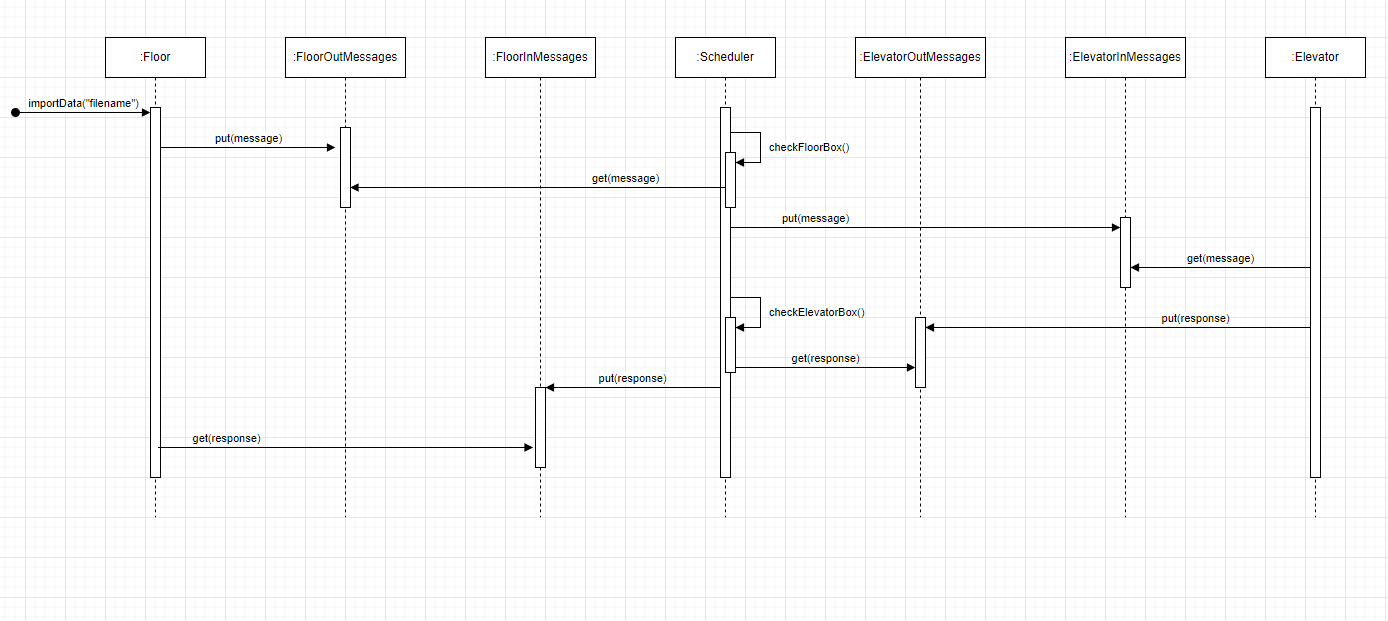
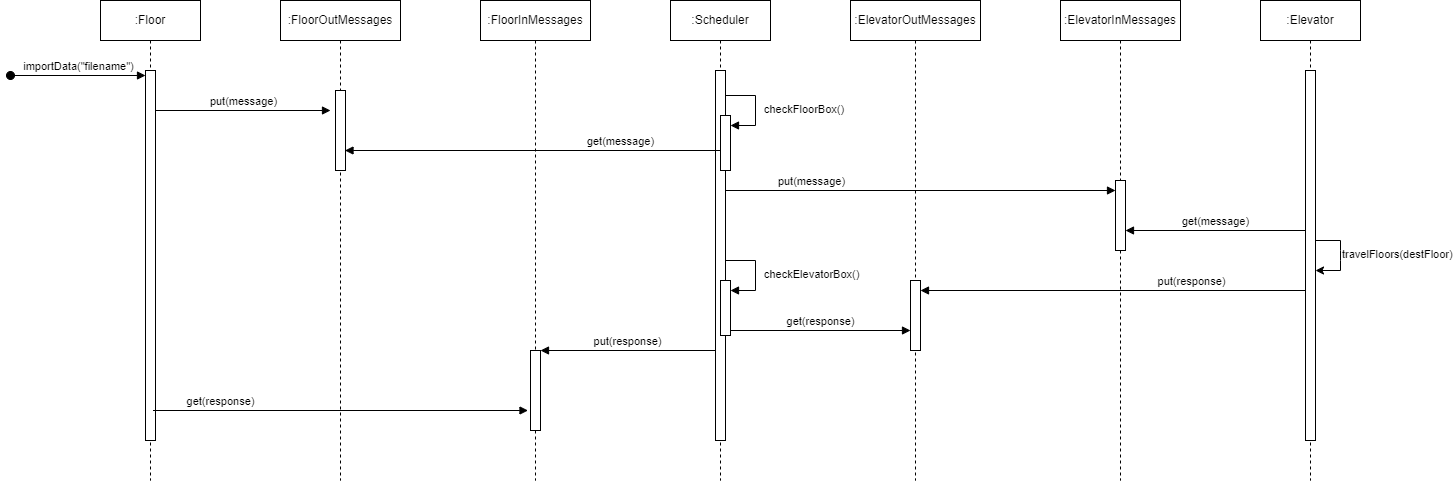
"Updated Scheduler to consider all requests at once"

diff --git a/src/ElevatorTest.java b/src/ElevatorTest.java
@@ -2,7 +2,7 @@ import org.junit.jupiter.api.Test;
 import static org.junit.jupiter.api.Assertions.*;
 /**
  * Unit tests for Class Elevator
- * @author Khola Haseeb 101192363
+ * @author Khola Haseeb 101192363, Mahnoor Fatima 101192353
  */
 public class ElevatorTest {
 
@@ -10,11 +10,11 @@ public class ElevatorTest {
     public void testRun(){
 
         //create MessageBox instances for testing
-        MessageBox incommingMessages = new MessageBox();
+        MessageBox incomingMessages = new MessageBox();
         MessageBox outgoingMessages = new MessageBox();
 
         // Create Elevator instance
-        Elevator elevator = new Elevator(incommingMessages,outgoingMessages);
+        Elevator elevator = new Elevator(incomingMessages,outgoingMessages);
 
         // create thread for elevator and start it
         Thread elevatorThread = new Thread(elevator);
@@ -22,10 +22,39 @@ public class ElevatorTest {
 
         Message message = new Message("14:05:15.0",2, "Up", 4);
 
-        // Add message to incommingMessages
-        incommingMessages.put(message);
+        // Add message to incomingMessages
+        incomingMessages.put(message);
 
         // Check if outgoingMessages contains the test message
         assertEquals(message, outgoingMessages.get());
+    }
+
+    @Test
+    public void testTravelFloors(){
+        //create MessageBox instances for testing
+        MessageBox incomingMessages = new MessageBox();
+        MessageBox outgoingMessages = new MessageBox();
+
+        // Create Elevator instance
+        Elevator elevator = new Elevator(incomingMessages,outgoingMessages);
+
+        // create thread for elevator and start it
+        Thread elevatorThread = new Thread(elevator);
+        elevatorThread.start();
+
+        Message message = new Message("14:05:15.0",2, "Up", 4);
+
+        // Add message to incomingMessages
+        incomingMessages.put(message);
+
+        //Initial Floor should be 0 and not the destination floor
+        assertEquals(0, elevator.getCurrentFloor());
+        assertNotEquals(message.getDestinationFloor(), elevator.getCurrentFloor());
+
+        //Travel to the destination floor
+        elevator.travelFloors(message.getDestinationFloor());
+
+        // Check if the destination floor matches
+        assertEquals(message.getDestinationFloor(), elevator.getCurrentFloor());
     }
 }

diff --git a/src/Elevator.java b/src/Elevator.java
@@ -88,6 +88,10 @@ public class Elevator implements Runnable {
             System.out.println("Lamp OFF, elevator has arrived.");
         }
     }
+
+    public Integer getCurrentFloor(){
+        return floor;
+    }
 }
 
 
